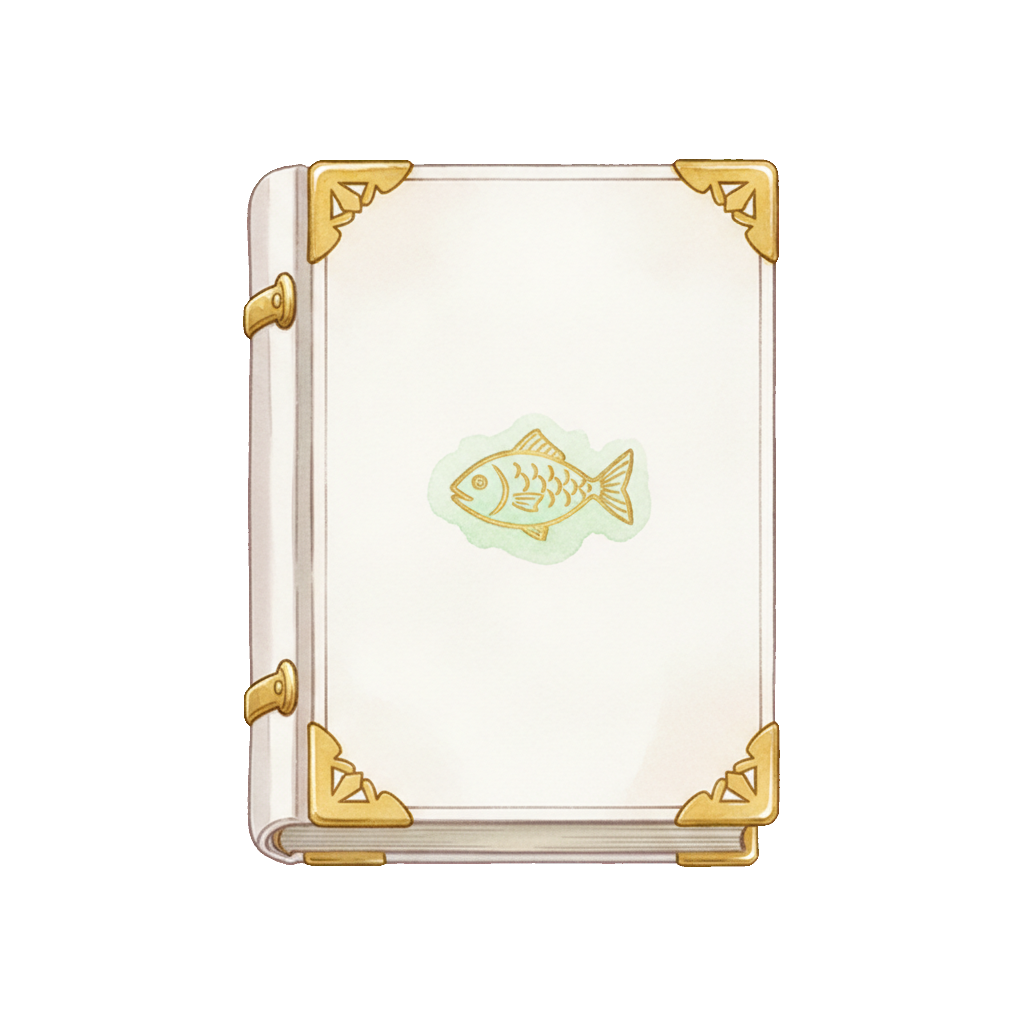
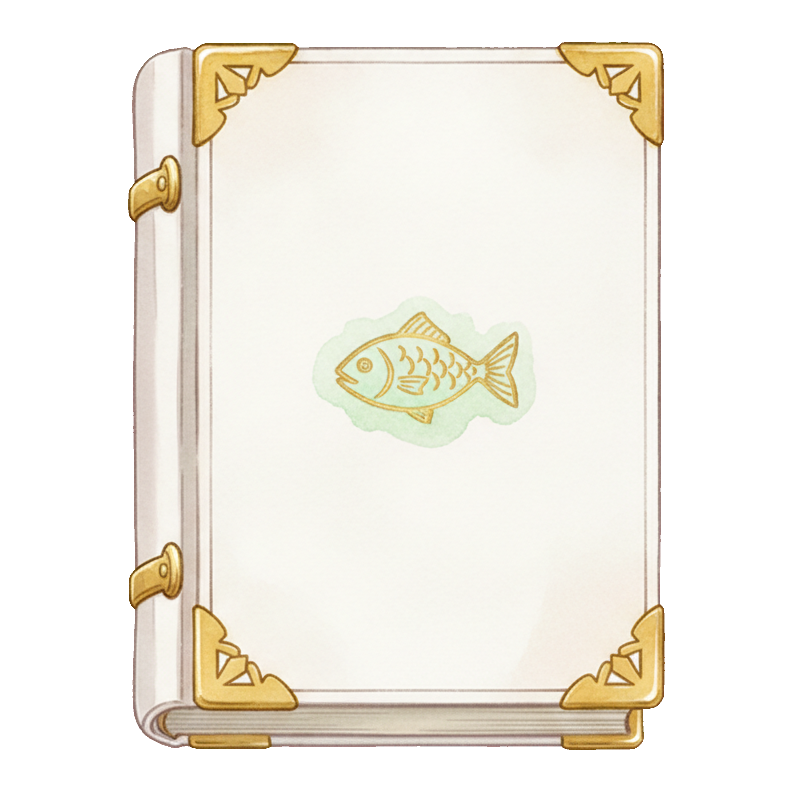
L27: ホームの光と飾り枠をキャラクターの後ろに、円の合わせを 1.12 倍に。タブアイコンの余白を切って大きく、影と選択表示、帯を額縁の白い帯に
Claude-Session: https://claude.ai/code/session_013ZeVe9ZYdh8wpCZVceWgfn

Changed region(s): [[0.1515, 0.0303, 0.8485, 0.9697], [0.3939, 0.3939, 0.6667, 0.5758]]

diff --git a/App/Sources/App/RootTabView.swift b/App/Sources/App/RootTabView.swift
@@ -96,11 +96,17 @@ struct RootTabView: View {
         } label: {
             Group {
                 if ThemeAssets.has(Self.ornament(for: tab)) {
-                    // テーマのアイコン（黒背景の絵を透かして重ねる）。選択中は明るく、他は暗く
-                    ThemeOrnament(name: Self.ornament(for: tab))
-                        .frame(width: 36, height: 36)
-                        .opacity(selected == tab ? 1 : 0.45)
-                        .shadow(color: selected == tab ? DS.Color.accent.opacity(0.6) : .clear, radius: 8)
+                    // テーマのアイコン。選択中はテーマ色の丸い座布団と影で持ち上げ、他は少し薄く
+                    ZStack {
+                        if selected == tab {
+                            Circle().fill(DS.Color.accent.opacity(0.22)).frame(width: 50, height: 50)
+                        }
+                        ThemeOrnament(name: Self.ornament(for: tab))
+                            .frame(width: 40, height: 40)
+                            .saturation(selected == tab ? 1 : 0.7)
+                            .opacity(selected == tab ? 1 : 0.7)
+                            .shadow(color: .black.opacity(0.35), radius: 2, y: 1)
+                    }
                 } else {
                     Image(systemName: selected == tab ? system + ".fill" : system)
                         .font(.system(size: 22, weight: .regular))
@@ -116,9 +122,10 @@ struct RootTabView: View {
         Button { selected = .capture } label: {
             ZStack {
                 if ThemeAssets.has(.tabCamera) {
-                    Circle().fill(DS.Color.secondary.opacity(0.35)).frame(width: 56, height: 56)
-                        .shadow(color: DS.Color.secondary.opacity(0.7), radius: 14)
-                    ThemeOrnament(name: .tabCamera).frame(width: 60, height: 60)
+                    Circle().fill(DS.Color.accent).frame(width: 58, height: 58)
+                        .shadow(color: DS.Color.accent.opacity(0.55), radius: 12)
+                    ThemeOrnament(name: .tabCamera).frame(width: 44, height: 44)
+                        .shadow(color: .black.opacity(0.35), radius: 2, y: 1)
                 } else {
                     Circle().fill(DS.Color.accent).frame(width: 56, height: 56)
                         .shadow(color: DS.Color.accent.opacity(0.55), radius: 12)

diff --git a/App/Sources/Features/Home/HomeView.swift b/App/Sources/Features/Home/HomeView.swift
@@ -185,19 +185,19 @@ struct HomeView: View {
             ZStack {
                 // 円は常に画面中央（魚種別の数字があっても動かさない）
                 ZStack {
-                    // テーマのキャラクター（円を両手で囲む）。画像の中の円（char_home.json の cx/cy/d）が釣れ率の円にぴったり重なるように拡大と位置を決める
+                    // 魔法の光と飾り枠はキャラクターより後ろ（顔を隠さない）
+                    if ThemeStore.shared.theme.hasAssets { MagicGlow().padding(-DS.Spacing.xl) }
+                    ThemeOrnament(name: .ringHome).padding(-DS.Spacing.l)
+                    // テーマのキャラクター（円を両手で囲む）。画像の中の円（char_home.json の cx/cy/d）が釣れ率の円に重なるように拡大と位置を決める。
+                    // 円を少し大きめ（1.12 倍）に合わせ、手が輪の外側を抱えて顔が輪の上に出るようにする
                     GeometryReader { g in
                         let spec = ThemeAssets.circle(.charHome)
                         let size = ThemeAssets.image(.charHome)?.size ?? CGSize(width: 16, height: 9)
-                        let imageH = g.size.height / spec.d
+                        let imageH = g.size.height * 1.12 / spec.d
                         let imageW = imageH * size.width / size.height
                         ThemeCharacter(name: .charHome, baseWidth: imageW)
                             .position(x: g.size.width / 2 + (0.5 - spec.cx) * imageW, y: g.size.height / 2 + (0.5 - spec.cy) * imageH)
                     }
-                    // 魔法の光（画像テーマのときだけ）
-                    if ThemeStore.shared.theme.hasAssets { MagicGlow().padding(-DS.Spacing.xl) }
-                    // テーマの飾り枠（魔導書など。黒背景の絵を透かして重ねる）
-                    ThemeOrnament(name: .ringHome).padding(-DS.Spacing.l)
                     // 下が開いた 270° のゲージ（確定画像）。トラックは暗いグレー
                     Circle().trim(from: 0, to: 0.75)
                         .stroke(DS.Color.textPrimary.opacity(0.16), style: StrokeStyle(lineWidth: 12, lineCap: .round))
